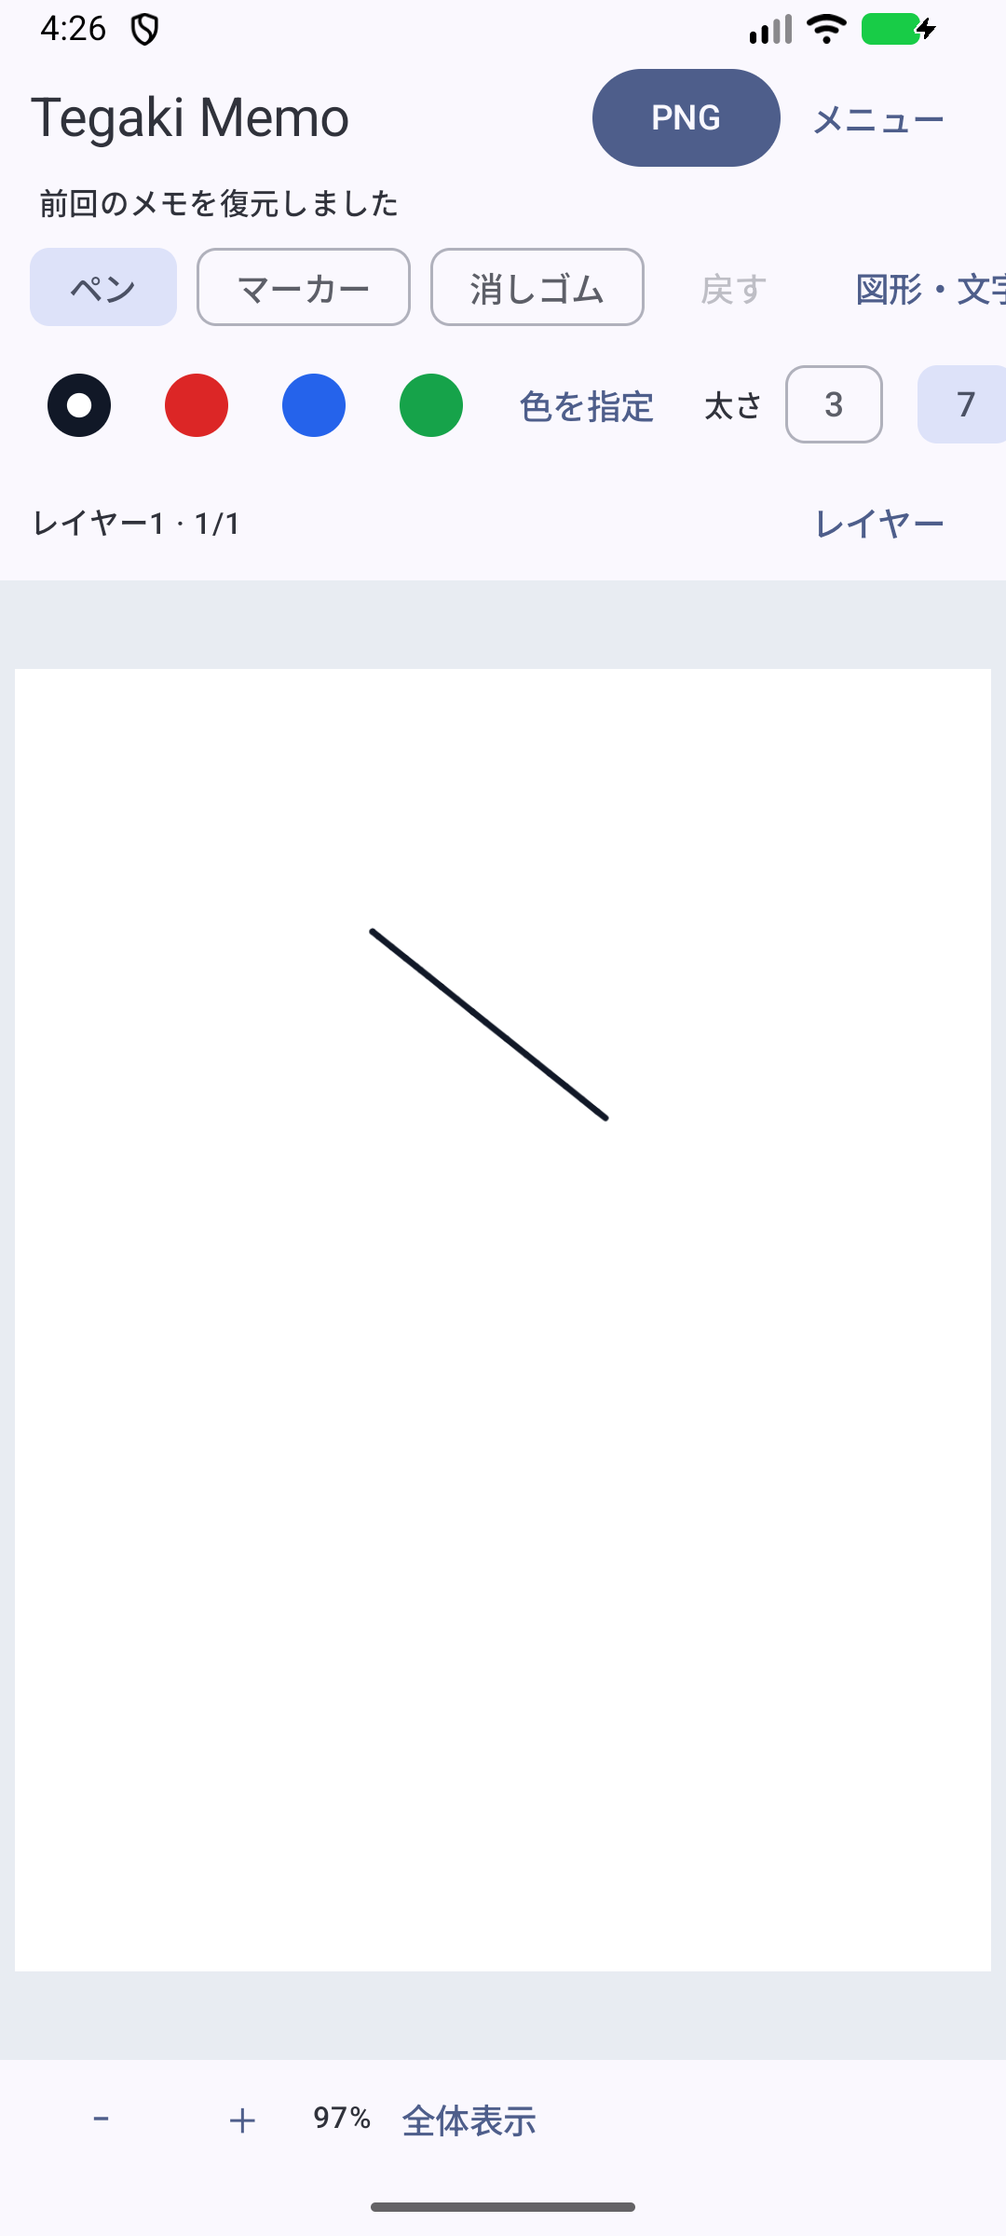
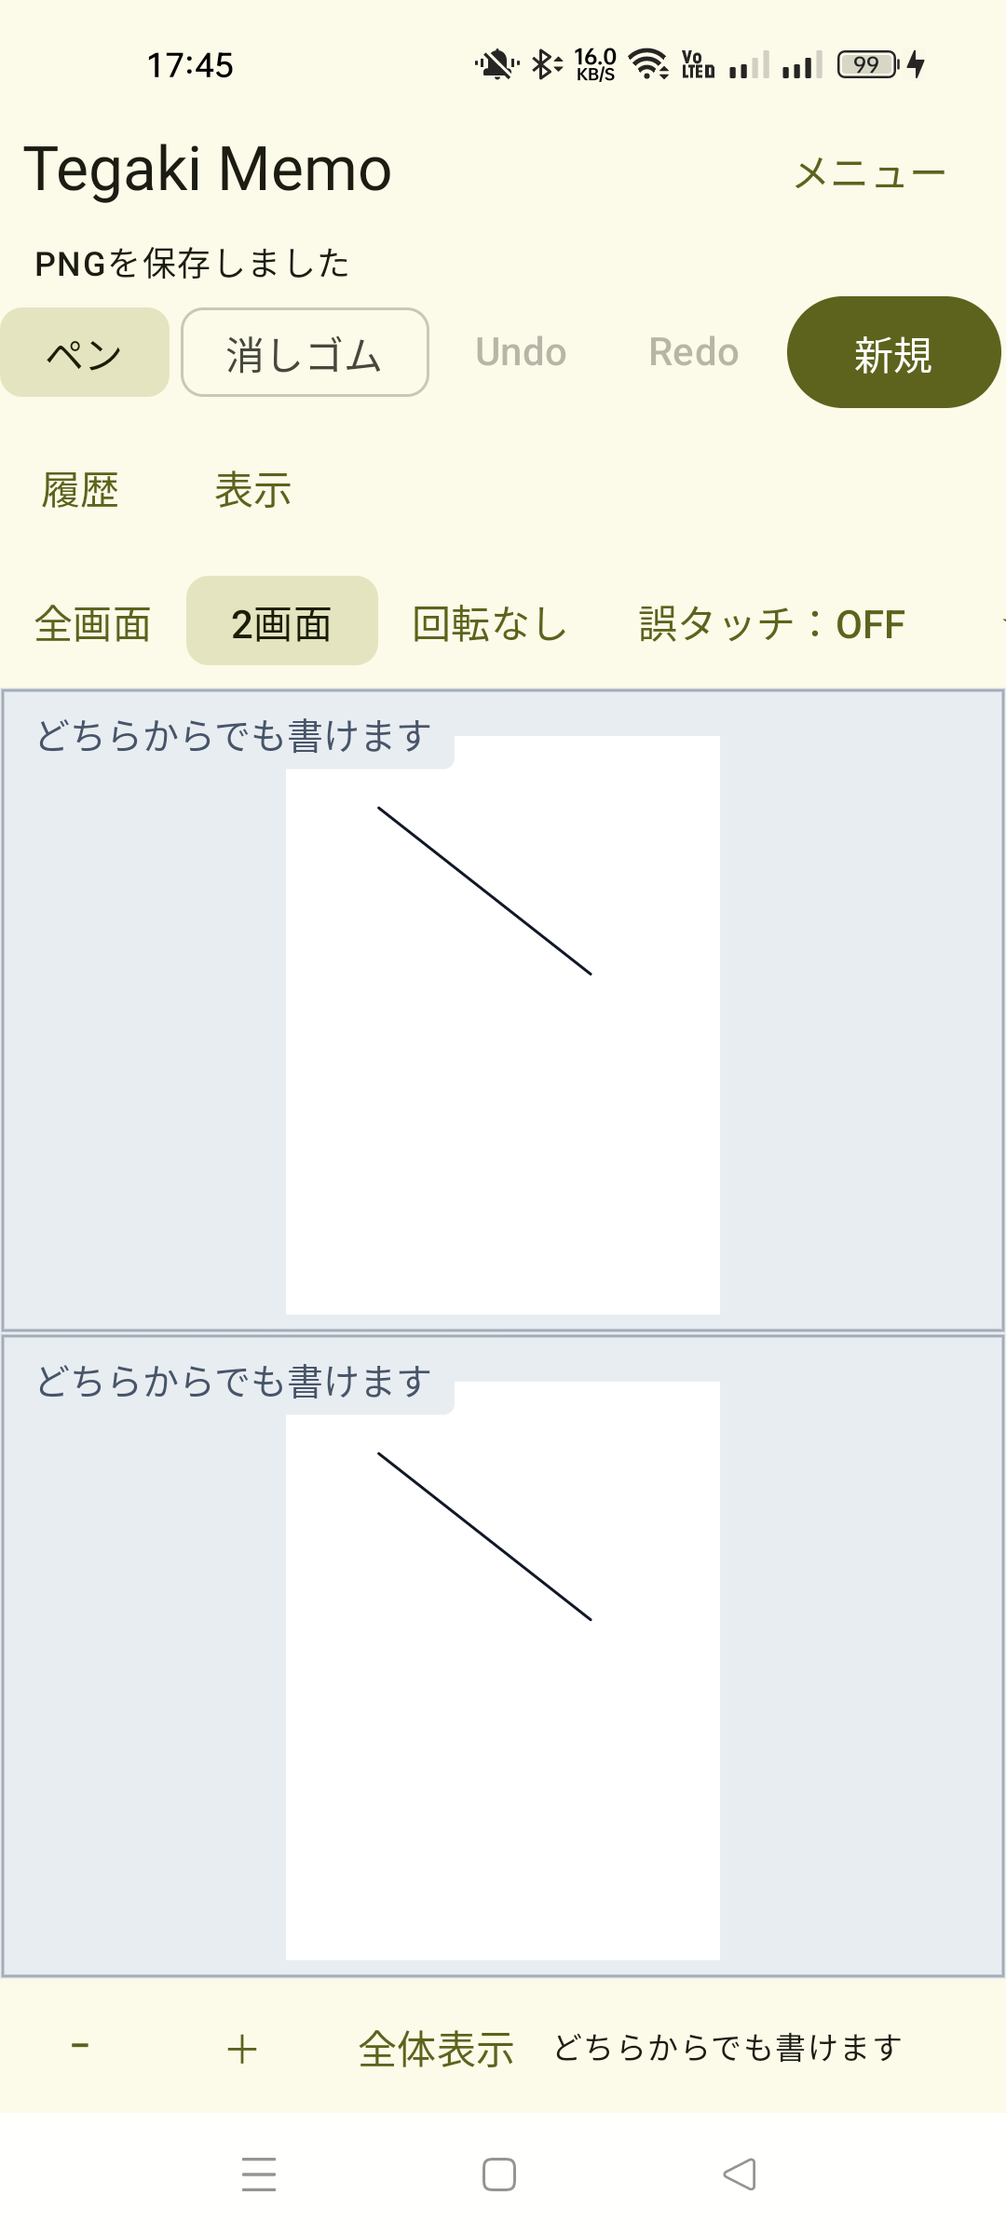
Update APK distribution documentation for v2.0-beta.1

diff --git a/THIRD_PARTY_NOTICES.md b/THIRD_PARTY_NOTICES.md
@@ -7,76 +7,121 @@ Project license references: [AndroidX](https://android.googlesource.com/platform
 
 | Component | License (Maven metadata) |
 | --- | --- |
+| androidx.activity:activity:1.8.2 | The Apache Software License, Version 2.0 |
 | androidx.activity:activity-compose:1.8.2 | The Apache Software License, Version 2.0 |
 | androidx.activity:activity-ktx:1.8.2 | The Apache Software License, Version 2.0 |
-| androidx.activity:activity:1.8.2 | The Apache Software License, Version 2.0 |
-| androidx.annotation:annotation-experimental:1.4.1 | The Apache Software License, Version 2.0 |
+| androidx.annotation:annotation:1.9.1 | The Apache Software License, Version 2.0 |
+| androidx.annotation:annotation-experimental:1.5.0 | The Apache Software License, Version 2.0 |
 | androidx.annotation:annotation-jvm:1.9.1 | The Apache Software License, Version 2.0 |
 | androidx.arch.core:core-common:2.2.0 | The Apache Software License, Version 2.0 |
 | androidx.arch.core:core-runtime:2.2.0 | The Apache Software License, Version 2.0 |
 | androidx.autofill:autofill:1.0.0 | The Apache Software License, Version 2.0 |
+| androidx.collection:collection:1.5.0 | The Apache Software License, Version 2.0 |
 | androidx.collection:collection-jvm:1.5.0 | The Apache Software License, Version 2.0 |
 | androidx.collection:collection-ktx:1.5.0 | The Apache Software License, Version 2.0 |
+| androidx.compose:compose-bom:2026.02.01 | The Apache Software License, Version 2.0 |
+| androidx.compose.animation:animation:1.10.4 | The Apache Software License, Version 2.0 |
 | androidx.compose.animation:animation-android:1.10.4 | The Apache Software License, Version 2.0 |
+| androidx.compose.animation:animation-core:1.10.4 | The Apache Software License, Version 2.0 |
 | androidx.compose.animation:animation-core-android:1.10.4 | The Apache Software License, Version 2.0 |
+| androidx.compose.foundation:foundation:1.10.4 | The Apache Software License, Version 2.0 |
 | androidx.compose.foundation:foundation-android:1.10.4 | The Apache Software License, Version 2.0 |
+| androidx.compose.foundation:foundation-layout:1.10.4 | The Apache Software License, Version 2.0 |
 | androidx.compose.foundation:foundation-layout-android:1.10.4 | The Apache Software License, Version 2.0 |
-| androidx.compose.material3:material3-android:1.4.0 | The Apache Software License, Version 2.0 |
+| androidx.compose.material:material-ripple:1.10.4 | The Apache Software License, Version 2.0 |
 | androidx.compose.material:material-ripple-android:1.10.4 | The Apache Software License, Version 2.0 |
+| androidx.compose.material3:material3-android:1.4.0 | The Apache Software License, Version 2.0 |
+| androidx.compose.runtime:runtime:1.10.4 | The Apache Software License, Version 2.0 |
 | androidx.compose.runtime:runtime-android:1.10.4 | The Apache Software License, Version 2.0 |
+| androidx.compose.runtime:runtime-annotation:1.10.4 | The Apache Software License, Version 2.0 |
 | androidx.compose.runtime:runtime-annotation-android:1.10.4 | The Apache Software License, Version 2.0 |
+| androidx.compose.runtime:runtime-retain:1.10.4 | The Apache Software License, Version 2.0 |
 | androidx.compose.runtime:runtime-retain-android:1.10.4 | The Apache Software License, Version 2.0 |
+| androidx.compose.runtime:runtime-saveable:1.10.4 | The Apache Software License, Version 2.0 |
 | androidx.compose.runtime:runtime-saveable-android:1.10.4 | The Apache Software License, Version 2.0 |
+| androidx.compose.ui:ui:1.10.4 | The Apache Software License, Version 2.0 |
 | androidx.compose.ui:ui-android:1.10.4 | The Apache Software License, Version 2.0 |
+| androidx.compose.ui:ui-geometry:1.10.4 | The Apache Software License, Version 2.0 |
 | androidx.compose.ui:ui-geometry-android:1.10.4 | The Apache Software License, Version 2.0 |
+| androidx.compose.ui:ui-graphics:1.10.4 | The Apache Software License, Version 2.0 |
 | androidx.compose.ui:ui-graphics-android:1.10.4 | The Apache Software License, Version 2.0 |
+| androidx.compose.ui:ui-text:1.10.4 | The Apache Software License, Version 2.0 |
 | androidx.compose.ui:ui-text-android:1.10.4 | The Apache Software License, Version 2.0 |
 | androidx.compose.ui:ui-tooling-preview-android:1.10.4 | The Apache Software License, Version 2.0 |
+| androidx.compose.ui:ui-unit:1.10.4 | The Apache Software License, Version 2.0 |
 | androidx.compose.ui:ui-unit-android:1.10.4 | The Apache Software License, Version 2.0 |
+| androidx.compose.ui:ui-util:1.10.4 | The Apache Software License, Version 2.0 |
 | androidx.compose.ui:ui-util-android:1.10.4 | The Apache Software License, Version 2.0 |
 | androidx.concurrent:concurrent-futures:1.1.0 | The Apache Software License, Version 2.0 |
+| androidx.core:core:1.16.0 | The Apache Software License, Version 2.0 |
 | androidx.core:core-ktx:1.16.0 | The Apache Software License, Version 2.0 |
 | androidx.core:core-viewtree:1.0.0 | The Apache Software License, Version 2.0 |
-| androidx.core:core:1.16.0 | The Apache Software License, Version 2.0 |
 | androidx.customview:customview-poolingcontainer:1.0.0 | The Apache Software License, Version 2.0 |
 | androidx.documentfile:documentfile:1.0.0 | The Apache Software License, Version 2.0 |
 | androidx.dynamicanimation:dynamicanimation:1.0.0 | The Apache Software License, Version 2.0 |
 | androidx.emoji2:emoji2:1.4.0 | The Apache Software License, Version 2.0 |
+| androidx.exifinterface:exifinterface:1.4.2 | The Apache Software License, Version 2.0 |
 | androidx.graphics:graphics-path:1.0.1 | The Apache Software License, Version 2.0 |
 | androidx.interpolator:interpolator:1.0.0 | The Apache Software License, Version 2.0 |
 | androidx.legacy:legacy-support-core-utils:1.0.0 | The Apache Software License, Version 2.0 |
+| androidx.lifecycle:lifecycle-common:2.9.4 | The Apache Software License, Version 2.0 |
 | androidx.lifecycle:lifecycle-common-java8:2.9.4 | The Apache Software License, Version 2.0 |
 | androidx.lifecycle:lifecycle-common-jvm:2.9.4 | The Apache Software License, Version 2.0 |
-| androidx.lifecycle:lifecycle-livedata-core-ktx:2.9.4 | The Apache Software License, Version 2.0 |
-| androidx.lifecycle:lifecycle-livedata-core:2.9.4 | The Apache Software License, Version 2.0 |
 | androidx.lifecycle:lifecycle-livedata:2.9.4 | The Apache Software License, Version 2.0 |
+| androidx.lifecycle:lifecycle-livedata-core:2.9.4 | The Apache Software License, Version 2.0 |
+| androidx.lifecycle:lifecycle-livedata-core-ktx:2.9.4 | The Apache Software License, Version 2.0 |
 | androidx.lifecycle:lifecycle-process:2.9.4 | The Apache Software License, Version 2.0 |
+| androidx.lifecycle:lifecycle-runtime:2.9.4 | The Apache Software License, Version 2.0 |
 | androidx.lifecycle:lifecycle-runtime-android:2.9.4 | The Apache Software License, Version 2.0 |
+| androidx.lifecycle:lifecycle-runtime-compose:2.9.4 | The Apache Software License, Version 2.0 |
 | androidx.lifecycle:lifecycle-runtime-compose-android:2.9.4 | The Apache Software License, Version 2.0 |
+| androidx.lifecycle:lifecycle-runtime-ktx:2.9.4 | The Apache Software License, Version 2.0 |
 | androidx.lifecycle:lifecycle-runtime-ktx-android:2.9.4 | The Apache Software License, Version 2.0 |
+| androidx.lifecycle:lifecycle-viewmodel:2.9.4 | The Apache Software License, Version 2.0 |
 | androidx.lifecycle:lifecycle-viewmodel-android:2.9.4 | The Apache Software License, Version 2.0 |
 | androidx.lifecycle:lifecycle-viewmodel-ktx:2.9.4 | The Apache Software License, Version 2.0 |
+| androidx.lifecycle:lifecycle-viewmodel-savedstate:2.9.4 | The Apache Software License, Version 2.0 |
 | androidx.lifecycle:lifecycle-viewmodel-savedstate-android:2.9.4 | The Apache Software License, Version 2.0 |
-| androidx.lifecycle:lifecycle-viewmodel:2.9.4 | The Apache Software License, Version 2.0 |
 | androidx.loader:loader:1.0.0 | The Apache Software License, Version 2.0 |
 | androidx.localbroadcastmanager:localbroadcastmanager:1.0.0 | The Apache Software License, Version 2.0 |
+| androidx.paging:paging-common:3.3.6 | The Apache Software License, Version 2.0 |
+| androidx.paging:paging-common-android:3.3.6 | The Apache Software License, Version 2.0 |
+| androidx.paging:paging-compose:3.3.6 | The Apache Software License, Version 2.0 |
+| androidx.paging:paging-compose-android:3.3.6 | The Apache Software License, Version 2.0 |
 | androidx.print:print:1.0.0 | The Apache Software License, Version 2.0 |
 | androidx.profileinstaller:profileinstaller:1.4.0 | The Apache Software License, Version 2.0 |
+| androidx.room:room-common:2.8.4 | The Apache Software License, Version 2.0 |
+| androidx.room:room-common-jvm:2.8.4 | The Apache Software License, Version 2.0 |
+| androidx.room:room-paging:2.8.4 | The Apache Software License, Version 2.0 |
+| androidx.room:room-paging-android:2.8.4 | The Apache Software License, Version 2.0 |
+| androidx.room:room-runtime:2.8.4 | The Apache Software License, Version 2.0 |
+| androidx.room:room-runtime-android:2.8.4 | The Apache Software License, Version 2.0 |
+| androidx.savedstate:savedstate:1.3.2 | The Apache Software License, Version 2.0 |
 | androidx.savedstate:savedstate-android:1.3.2 | The Apache Software License, Version 2.0 |
+| androidx.savedstate:savedstate-compose:1.3.2 | The Apache Software License, Version 2.0 |
 | androidx.savedstate:savedstate-compose-android:1.3.2 | The Apache Software License, Version 2.0 |
 | androidx.savedstate:savedstate-ktx:1.3.2 | The Apache Software License, Version 2.0 |
+| androidx.sqlite:sqlite:2.6.2 | The Apache Software License, Version 2.0 |
+| androidx.sqlite:sqlite-android:2.6.2 | The Apache Software License, Version 2.0 |
+| androidx.sqlite:sqlite-framework:2.6.2 | The Apache Software License, Version 2.0 |
+| androidx.sqlite:sqlite-framework-android:2.6.2 | The Apache Software License, Version 2.0 |
 | androidx.startup:startup-runtime:1.1.1 | The Apache Software License, Version 2.0 |
 | androidx.tracing:tracing:1.2.0 | The Apache Software License, Version 2.0 |
 | androidx.transition:transition:1.6.0 | The Apache Software License, Version 2.0 |
 | androidx.versionedparcelable:versionedparcelable:1.1.1 | The Apache Software License, Version 2.0 |
-| androidx.window:window-core-android:1.5.0 | The Apache Software License, Version 2.0 |
 | androidx.window:window:1.5.0 | The Apache Software License, Version 2.0 |
+| androidx.window:window-core:1.5.0 | The Apache Software License, Version 2.0 |
+| androidx.window:window-core-android:1.5.0 | The Apache Software License, Version 2.0 |
 | com.google.guava:listenablefuture:1.0 | Apache-2.0 (project license; see links below) |
+| org.jetbrains:annotations:23.0.0 | The Apache Software License, Version 2.0 |
 | org.jetbrains.kotlin:kotlin-stdlib:2.2.10 | The Apache License, Version 2.0 |
 | org.jetbrains.kotlinx:kotlinx-coroutines-android:1.9.0 | The Apache Software License, Version 2.0 |
+| org.jetbrains.kotlinx:kotlinx-coroutines-bom:1.9.0 | The Apache Software License, Version 2.0 |
+| org.jetbrains.kotlinx:kotlinx-coroutines-core:1.9.0 | The Apache Software License, Version 2.0 |
 | org.jetbrains.kotlinx:kotlinx-coroutines-core-jvm:1.9.0 | The Apache Software License, Version 2.0 |
+| org.jetbrains.kotlinx:kotlinx-serialization-bom:1.7.3 | The Apache Software License, Version 2.0 |
+| org.jetbrains.kotlinx:kotlinx-serialization-core:1.7.3 | The Apache Software License, Version 2.0 |
 | org.jetbrains.kotlinx:kotlinx-serialization-core-jvm:1.7.3 | The Apache Software License, Version 2.0 |
-| org.jetbrains:annotations:23.0.0 | The Apache Software License, Version 2.0 |
 | org.jspecify:jspecify:1.0.0 | The Apache License, Version 2.0 |
 
 ## Apache License 2.0

diff --git a/README.md b/README.md
@@ -1,56 +1,59 @@
 # Tegaki Memo — Android APK配布
 
-Kotlin + Jetpack Composeによる手書きメモアプリのAndroid版です。
-このリポジトリはAPKと利用者向け説明の配布専用です。Androidアプリのソースコードは含みません。
-PWA版は別プロジェクトです。このページで配布するファイルはAndroidアプリです。
+Android向けの手書きメモアプリです。APKと利用説明を公開しています。開発ソースは含みません。
 
 ## ダウンロード
 
-[Releases](https://github.com/kgymk1-hub/TegakiMemo-Releases/releases) から `TegakiMemo-v1.0-beta.1.apk` を取得してください。
-初回はβ版です。重要なメモは `.tegaki` 形式で別途保存してください。
-「Source code (zip/tar.gz)」はこの配布ページの資料で、インストール用アプリではありません。
+[v2.0-beta.1](https://github.com/kgymk1-hub/TegakiMemo-Releases/releases/tag/v2.0-beta.1) の `TegakiMemo-v2.0-beta.1.apk` をダウンロードしてください。
+Android 8.0以上。実機検証はOPPO Reno5 A / Android 12、追加検証はAPI37エミュレーターです。
+Android 8、実タブレット、物理スタイラス、TalkBack音声での全操作は未確認です。
+重要なメモは新しい `.tegaki` 形式で書き出して保管してください。
+「Source code (zip/tar.gz)」は配布ページの資料で、インストール用アプリではありません。
 
-## 対応環境
+## インストール・更新
 
-Android 8.0以上（minSdk 26）。Android 12のOPPO実機とAndroid 17/API 37エミュレータで機能を検証しています。
-配布用署名APKの最終確認はAPI 37エミュレータです。Android 8実動作、物理スタイラス、実タブレット、TalkBack音声での全操作は未確認です。
-
-## インストールと更新
-
-1. スマートフォンでAPKをダウンロードし、開きます。
-2. 必要な場合、そのブラウザ／Filesに対して「不明なアプリのインストール」を許可します。
+1. APKを端末にダウンロードして開きます。
+2. 必要な場合、ブラウザやFilesに「不明なアプリのインストール」を許可します。
 3. インストール後、不要になった許可は戻してください。
 
-更新はこの配布ページの新しいAPKをダウンロードして上書きインストールします。自動更新機能はありません。
-更新前にも大切なメモを.tegakiへ保存してください。
-
-**以前の開発用アプリを入れている場合**：正式署名とは鍵が異なるため、そのまま上書きできません。
-既存メモを.tegakiへ書き出して安全な場所へ保存してから、開発用アプリを削除し、本APKを入れてファイルを読み込んでください。
-アプリを削除すると内部メモは消えます。書出し前に削除しないでください。
-「Tegaki Memo 検証用」は別アプリで、メモを共有しません。
+正式署名の旧版1.0には上書きインストールできます。自動更新機能はありません。
+**改良版はPWA版・旧Android版の.tegakiおよび自動保存データと互換性がありません。**
+旧版の内部データは自動移行・削除しませんが、改良版から旧メモを開く機能はありません。
+旧メモが必要な場合は更新前に旧版でPNG/.tegakiを書き出して保管してください。
+アプリのアンインストールやデータ消去は内部データを削除します。
+開発用debug署名アプリとは鍵が異なります。「Tegaki Memo 検証用」は別アプリで、メモを共有しません。
 
 ## 主な機能
 
-- ペン・マーカー・消しゴム、色・太さ、Undo
-- PNG保存、画像読込と移動・拡大縮小・回転
-- 自動保存、キャンバスサイズ変更、ピンチズーム
-- 最大5レイヤー、図形・文字、選択・コピー・切取り・貼付け
-- PWA版と互換の.tegaki読込／保存（Android版の上限内）
+- ペン、35%マーカー、線全体を消す消しゴム、色・太さ、Undo/Redo
+- 図形・文字、範囲選択、コピー・切取り・貼付け、移動・拡縮・90度回転
+- 最大5レイヤー、再利用する図の登録・呼出し
+- 画像読込、PNG保存、Android専用の新しい.tegaki読込・保存
+- メモごとの自動保存、履歴・お気に入り、ピンチズーム、キャンバスサイズ変更
+- 全画面・180度表示回転。縦は上下、横は左右の2画面に同じメモを同期表示
+- 入力権がある側の青枠・「入力中」表示、各画面の独立ズーム、誤タッチ防止
 
 ## 保存と制限
 
-作業中のメモ1件を自動保存します。別のメモに切り替える前に.tegakiで書き出してください。
-PNGは合成画像、.tegakiはレイヤー付きの編集データです。
-各辺100〜4000px、キャンバス800万画素、レイヤー合計1600万画素、読込ファイル64MiBまで。
-Undoは最大10操作で、アプリ終了後の履歴復元はありません。文字は確定後に画像化されます。
-保存完了前の強制終了や電源断では最後の変更を失う場合があります。
+1メモ1ファイルで保存し、操作後約1秒でチェックポイントを作成します。
+保存失敗時は編集・ページ移動を止め、再試行できます。復旧ログへの書込前の操作や未確定線は強制終了時に失われ得ます。
+文書削除は索引で非表示にし、元ファイルは保持します。完全消去・機密データ抹消機能ではありません。
+Undo/Redoは最大100操作・追加保持データ8MiBで、ページ切替・再起動後はリセットされます。
+キャンバスは各辺100〜4000、合計800万座標単位。最大2万オブジェクト・50万点。
+画像は1枚100万画素/4MiB、最大16枚・合計16MiB。文書展開後32MiBまで。
 
-## データの取扱い・問い合わせ
+## 検証とβ版の注意
 
-[データの取扱い](PRIVACY.md)、[第三者ライブラリ](THIRD_PARTY_NOTICES.md) を参照してください。
-提供者：kgymk1-hub。問い合わせ・不具合報告は [Issues](https://github.com/kgymk1-hub/TegakiMemo-Releases/issues) へ。
-公開の場なので個人情報や私的なメモ画像を投稿しないでください。
+Debug自動テストは実機・API37で各116件成功。7段階のプロセス強制終了からの復旧も両環境で成功しました。
+配布署名APKはOPPOで旧正式版への上書き、起動、描画、PNG保存、再起動後の復元と上下2画面を確認しました。新規インストールは未検証です。
+実際の容量不足・物理電源断・数時間の連続運転は未検証です。
+初期化処理は軽くしましたが、30回比較で起動全体の高速化は確認できていません。
+
+## データ・問い合わせ
+
+[データの取扱い](PRIVACY.md) / [第三者ライブラリ](THIRD_PARTY_NOTICES.md)
+提供者：kgymk1-hub。[不具合報告](https://github.com/kgymk1-hub/TegakiMemo-Releases/issues)には個人情報や私的なメモを投稿しないでください。
 
 ## 画面例
 
-![Tegaki Memo Android版の画面](screenshot.png)
+![改良版の上下2画面表示](screenshot.png)

diff --git a/PRIVACY.md b/PRIVACY.md
@@ -3,7 +3,8 @@
 提供者：kgymk1-hub / 対象：Tegaki Memo Android版 / 2026-10-08
 
 本アプリは描画、選んだ画像、レイヤー・編集設定を端末のアプリ専用領域に保存します。
-作業中のメモ1件を自動保存し、.tegaki読込時には置換前のメモ等を内部に退避します。
+メモを1件ずつ別ファイルに自動保存し、復旧ログ・履歴索引・サムネイル・登録した図を端末内に保持します。
+履歴からの削除は非表示にする操作で、元ファイルを保持します。PWA・旧Android版データの自動移行はありません。
 コピー画像はアプリ内でのみ保持します。
 
 アプリ独自のサーバー送信・広告・アクセス解析・アカウント登録はありません。
